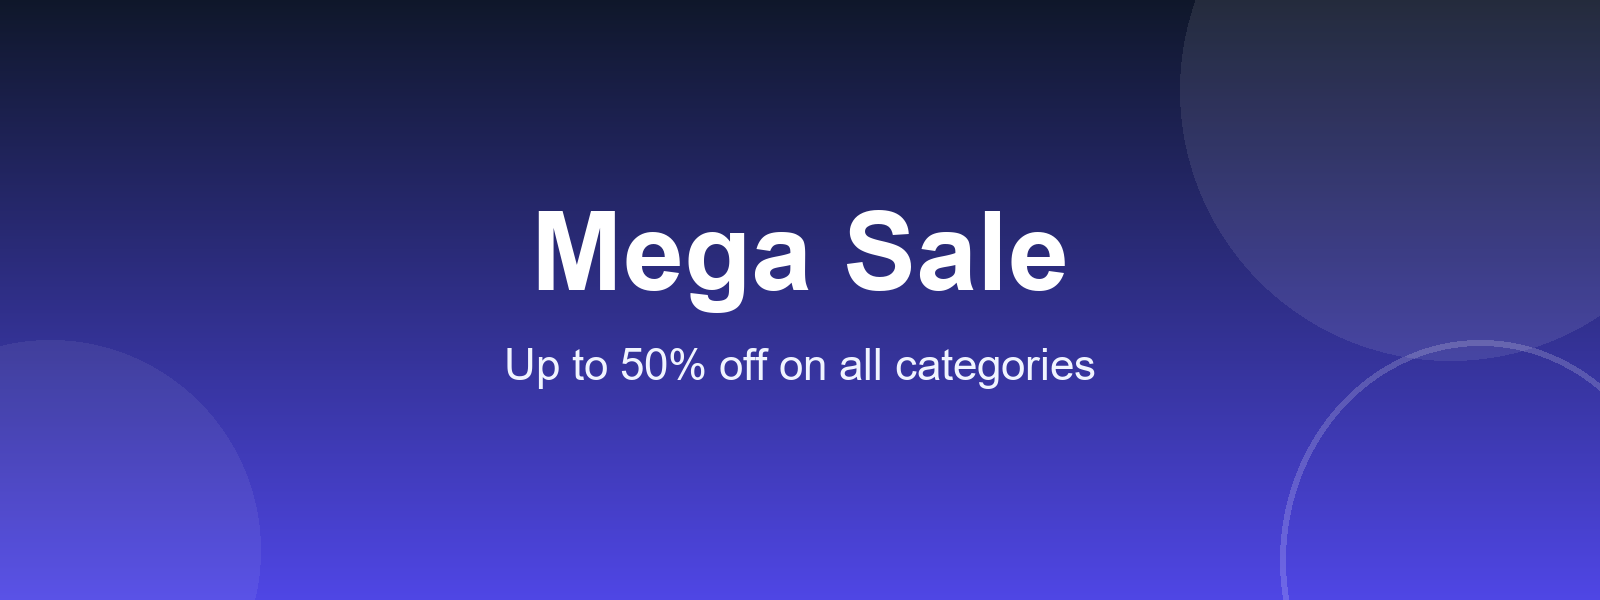
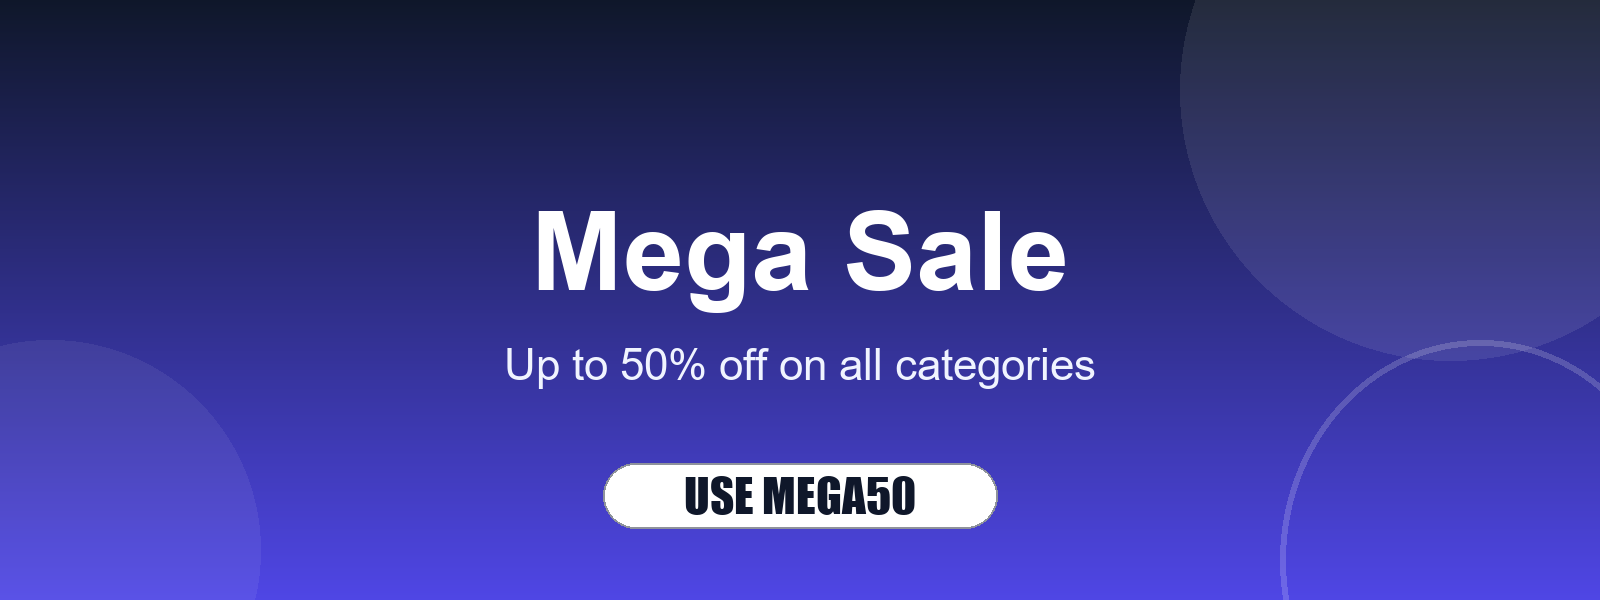
a little improvement

Changed region(s): [[0.375, 0.75, 0.625, 0.9]]

diff --git a/index.html b/index.html
@@ -14,9 +14,9 @@
   <script src="js/balance.js" defer></script>
   <script src="js/wishlist.js" defer></script>
 </head>
-<body class="min-h-screen bg-slate-50 pt-16">
+<body class="min-h-screen bg-slate-100 pt-16">
   <!-- Navbar -->
-  <header class="fixed inset-x-0 top-0 z-50 bg-white border-b border-slate-200">
+  <header class="fixed inset-x-0 top-0 z-50 bg-slate-50 border-b border-slate-200">
     <nav class="relative z-50 max-w-6xl mx-auto flex items-center justify-between h-16 px-4 sm:px-6">
       <a href="#home" class="flex items-center gap-2.5">
         <img src="assets/images/logo.png" alt="SmartShop logo" class="h-8 w-8" />
@@ -51,7 +51,7 @@
         <!-- End Hamburger button -->
       </div>
     </nav>
-    <div id="mobile-menu" class="fixed inset-0 z-40 hidden bg-white md:hidden">
+    <div id="mobile-menu" class="fixed inset-0 z-40 hidden bg-slate-50 md:hidden">
       <ul class="flex h-full flex-col items-center justify-center space-y-2 text-center">
         <li><a href="#home" class="block px-8 py-3 text-2xl font-medium text-slate-900 transition hover:underline hover:underline-offset-8 hover:decoration-2">Home</a></li>
         <li><a href="#products" class="block px-8 py-3 text-2xl font-medium text-slate-900 transition hover:underline hover:underline-offset-8 hover:decoration-2">Products</a></li>
@@ -62,8 +62,8 @@
   </header>
   <!-- End Navbar -->
   <!-- Banner -->
-  <section id="home" class="scroll-mt-20">
-    <div id="banner" class="relative h-60 sm:h-80 lg:h-[480px] overflow-hidden">
+  <section id="home" class="scroll-mt-20 max-w-6xl mx-auto px-4 sm:px-6 pt-4 sm:pt-6">
+    <div id="banner" class="relative h-60 sm:h-80 lg:h-[480px] overflow-hidden rounded-2xl border border-slate-200 shadow-sm">
       <!-- Slides -->
       <div class="banner-slide absolute inset-0">
         <img src="assets/images/banner1.png" alt="Mega Sale" class="h-full w-full object-cover" />
@@ -132,7 +132,7 @@
       <p class="mt-1 text-sm text-slate-500">What our customers say.</p>
       <div class="mt-6 relative">
         <!-- Carousel -->
-        <div id="reviews-viewport" class="overflow-hidden rounded-xl border border-slate-200 bg-white">
+        <div id="reviews-viewport" class="overflow-hidden rounded-xl border border-slate-200 bg-slate-50">
           <div id="reviews-track" class="min-h-40"></div>
         </div>
         <!-- End Carousel -->
@@ -159,7 +159,7 @@
       <!-- Team grid -->
       <div id="team-grid" class="mt-6 grid grid-cols-1 gap-6 sm:grid-cols-3">
         <!-- Team member -->
-        <figure class="overflow-hidden rounded-xl border border-slate-200 bg-white shadow-sm transition hover:shadow-md">
+        <figure class="overflow-hidden rounded-xl border border-slate-200 bg-slate-50 shadow-sm transition hover:shadow-md">
           <img src="assets/images/raahim.png" alt="Md Raahim Anowar" class="aspect-square w-full object-cover" loading="lazy" />
           <figcaption class="p-4">
             <p class="text-sm font-semibold text-slate-900">Md Raahim Anowar</p>
@@ -169,7 +169,7 @@
         </figure>
         <!-- End Team member -->
         <!-- Team member -->
-        <figure class="overflow-hidden rounded-xl border border-slate-200 bg-white shadow-sm transition hover:shadow-md">
+        <figure class="overflow-hidden rounded-xl border border-slate-200 bg-slate-50 shadow-sm transition hover:shadow-md">
           <img src="assets/images/tansen.png" alt="Md Tansen Uddin Tansu" class="aspect-square w-full object-cover" loading="lazy" />
           <figcaption class="p-4">
             <p class="text-sm font-semibold text-slate-900">Md Tansen Uddin Tansu</p>
@@ -179,7 +179,7 @@
         </figure>
         <!-- End Team member -->
         <!-- Team member -->
-        <figure class="overflow-hidden rounded-xl border border-slate-200 bg-white shadow-sm transition hover:shadow-md">
+        <figure class="overflow-hidden rounded-xl border border-slate-200 bg-slate-50 shadow-sm transition hover:shadow-md">
           <img src="assets/images/sayed.png" alt="MA Sayed" class="aspect-square w-full object-cover" loading="lazy" />
           <figcaption class="p-4">
             <p class="text-sm font-semibold text-slate-900">MA Sayed</p>
@@ -195,7 +195,7 @@
     <!-- FAQ -->
     <section id="faq" class="max-w-6xl mx-auto px-4 sm:px-6 pb-16">
       <h2 class="text-2xl font-semibold tracking-tight text-slate-900">FAQ</h2>
-      <div class="mt-6 max-w-3xl divide-y divide-slate-200 rounded-xl border border-slate-200 bg-white px-6 shadow-sm">
+      <div class="mt-6 divide-y divide-slate-200 rounded-xl border border-slate-200 bg-slate-50 px-6 shadow-sm">
         <!-- FAQ item -->
         <div>
           <button type="button" class="flex w-full items-center justify-between py-4 text-left text-sm font-medium text-slate-900">
@@ -236,14 +236,16 @@
     <section id="contact" class="scroll-mt-20 max-w-6xl mx-auto px-4 sm:px-6 pb-20">
       <h2 class="text-2xl font-semibold tracking-tight text-slate-900">Contact</h2>
       <p class="mt-1 text-sm text-slate-500">We usually reply within a day.</p>
-      <form id="contact-form" class="mt-6 max-w-md space-y-4" novalidate>
-        <div>
-          <label for="contact-name" class="block text-sm font-medium text-slate-700">Name</label>
-          <input id="contact-name" type="text" class="mt-1 w-full rounded-lg border border-slate-300 bg-white px-3 py-2 text-sm focus:border-slate-900 focus:outline-none" />
-        </div>
-        <div>
-          <label for="contact-email" class="block text-sm font-medium text-slate-700">Email</label>
-          <input id="contact-email" type="email" class="mt-1 w-full rounded-lg border border-slate-300 bg-white px-3 py-2 text-sm focus:border-slate-900 focus:outline-none" />
+      <form id="contact-form" class="mt-6 space-y-4" novalidate>
+        <div class="grid gap-4 sm:grid-cols-2">
+          <div>
+            <label for="contact-name" class="block text-sm font-medium text-slate-700">Name</label>
+            <input id="contact-name" type="text" class="mt-1 w-full rounded-lg border border-slate-300 bg-white px-3 py-2 text-sm focus:border-slate-900 focus:outline-none" />
+          </div>
+          <div>
+            <label for="contact-email" class="block text-sm font-medium text-slate-700">Email</label>
+            <input id="contact-email" type="email" class="mt-1 w-full rounded-lg border border-slate-300 bg-white px-3 py-2 text-sm focus:border-slate-900 focus:outline-none" />
+          </div>
         </div>
         <div>
           <label for="contact-message" class="block text-sm font-medium text-slate-700">Message</label>
@@ -251,12 +253,12 @@
         </div>
         <button type="submit" class="rounded-lg bg-slate-900 px-4 py-2.5 text-sm font-medium text-white transition hover:bg-slate-800">Send message</button>
       </form>
-      <p id="contact-success" class="hidden mt-6 max-w-md text-sm font-medium text-emerald-600">Thank you! Your message has been sent.</p>
+      <p id="contact-success" class="hidden mt-6 text-sm font-medium text-emerald-600">Thank you! Your message has been sent.</p>
     </section>
     <!-- End Contact -->
   </main>
   <!-- Footer -->
-  <footer class="border-t border-slate-200 bg-white">
+  <footer class="border-t border-slate-200 bg-slate-50">
     <div class="max-w-6xl mx-auto px-4 sm:px-6 py-10">
       <div class="grid grid-cols-1 sm:grid-cols-2 gap-8">
         <div>
@@ -281,7 +283,7 @@
   <!-- End Footer -->
   <!-- Cart drawer -->
   <div id="cart-backdrop" class="fixed inset-0 z-[55] bg-slate-900/40 opacity-0 pointer-events-none transition-opacity duration-300"></div>
-  <aside id="cart-drawer" aria-label="Shopping cart" class="fixed inset-y-0 right-0 z-[60] flex w-full max-w-sm translate-x-full flex-col bg-white border-l border-slate-200 shadow-xl transition-transform duration-300">
+  <aside id="cart-drawer" aria-label="Shopping cart" class="fixed inset-y-0 right-0 z-[60] flex w-full max-w-sm translate-x-full flex-col bg-slate-50 border-l border-slate-200 shadow-xl transition-transform duration-300">
     <div class="flex h-16 items-center justify-between border-b border-slate-200 px-5">
       <h2 class="text-base font-semibold tracking-tight text-slate-900">Your Cart</h2>
       <button id="cart-close" type="button" aria-label="Close cart" class="rounded-lg p-2 text-slate-500 transition hover:bg-slate-100 hover:text-slate-900">
@@ -292,7 +294,7 @@
     </div>
     <div class="flex-1 overflow-y-auto px-5 py-4">
       <!-- Items -->
-      <ul id="cart-items" class="divide-y divide-slate-100"></ul>
+      <ul id="cart-items" class="divide-y divide-slate-200"></ul>
       <!-- End Items -->
       <!-- Money rows -->
       <dl class="mt-4 space-y-2 text-sm text-slate-600">
@@ -321,7 +323,7 @@
       <p id="delivery-hint" class="hidden mt-2 text-xs"></p>
       <!-- Coupon -->
       <div class="mt-4 flex gap-2">
-        <input id="coupon-input" type="text" placeholder="Coupon code" class="w-full rounded-lg border border-slate-300 px-3 py-2 text-sm uppercase tracking-wide placeholder:text-slate-400 placeholder:normal-case focus:border-slate-900 focus:outline-none" />
+        <input id="coupon-input" type="text" placeholder="Coupon code" class="w-full rounded-lg border border-slate-300 bg-white px-3 py-2 text-sm uppercase tracking-wide placeholder:text-slate-400 placeholder:normal-case focus:border-slate-900 focus:outline-none" />
         <button id="coupon-apply" type="button" class="rounded-lg border border-slate-300 px-4 py-2 text-sm font-medium text-slate-700 transition hover:border-slate-900 hover:text-slate-900">Apply</button>
       </div>
       <!-- End Coupon -->
@@ -333,7 +335,7 @@
   <!-- End Cart drawer -->
   <!-- Balance drawer -->
   <div id="balance-backdrop" class="fixed inset-0 z-[55] bg-slate-900/40 opacity-0 pointer-events-none transition-opacity duration-300"></div>
-  <aside id="balance-drawer" aria-label="Balance" class="fixed inset-y-0 right-0 z-[60] flex w-full max-w-sm translate-x-full flex-col bg-white border-l border-slate-200 shadow-xl transition-transform duration-300">
+  <aside id="balance-drawer" aria-label="Balance" class="fixed inset-y-0 right-0 z-[60] flex w-full max-w-sm translate-x-full flex-col bg-slate-50 border-l border-slate-200 shadow-xl transition-transform duration-300">
     <div class="flex h-16 items-center justify-between border-b border-slate-200 px-5">
       <h2 class="text-base font-semibold tracking-tight text-slate-900">Balance</h2>
       <button id="balance-close" type="button" aria-label="Close balance" class="rounded-lg p-2 text-slate-500 transition hover:bg-slate-100 hover:text-slate-900">
@@ -352,7 +354,7 @@
   <!-- End Balance drawer -->
   <!-- Wishlist drawer -->
   <div id="wishlist-backdrop" class="fixed inset-0 z-[55] bg-slate-900/40 opacity-0 pointer-events-none transition-opacity duration-300"></div>
-  <aside id="wishlist-drawer" aria-label="Wishlist" class="fixed inset-y-0 right-0 z-[60] flex w-full max-w-sm translate-x-full flex-col bg-white border-l border-slate-200 shadow-xl transition-transform duration-300">
+  <aside id="wishlist-drawer" aria-label="Wishlist" class="fixed inset-y-0 right-0 z-[60] flex w-full max-w-sm translate-x-full flex-col bg-slate-50 border-l border-slate-200 shadow-xl transition-transform duration-300">
     <div class="flex h-16 items-center justify-between border-b border-slate-200 px-5">
       <h2 class="text-base font-semibold tracking-tight text-slate-900">Wishlist</h2>
       <button id="wishlist-close" type="button" aria-label="Close wishlist" class="rounded-lg p-2 text-slate-500 transition hover:bg-slate-100 hover:text-slate-900">
@@ -362,7 +364,7 @@
       </button>
     </div>
     <div class="flex-1 overflow-y-auto px-5 py-4">
-      <ul id="wishlist-items" class="divide-y divide-slate-100"></ul>
+      <ul id="wishlist-items" class="divide-y divide-slate-200"></ul>
     </div>
   </aside>
   <!-- End Wishlist drawer -->

diff --git a/js/products.js b/js/products.js
@@ -23,7 +23,7 @@ function baseCount() {
 // Loading skeletons
 function skeletonCard() {
   const card = document.createElement('article');
-  card.className = 'animate-pulse rounded-xl border border-slate-200 bg-white';
+  card.className = 'animate-pulse rounded-xl border border-slate-200 bg-slate-50';
   const img = document.createElement('div');
   img.className = 'h-44 w-full bg-slate-100';
   const body = document.createElement('div');
@@ -111,7 +111,7 @@ function buildStars(rate) {
 
 function createCard(product) {
   const card = document.createElement('article');
-  card.className = 'relative flex flex-col overflow-hidden rounded-xl border border-slate-200 bg-white shadow-sm transition hover:-translate-y-0.5 hover:shadow-lg';
+  card.className = 'relative flex flex-col overflow-hidden rounded-xl border border-slate-200 bg-slate-50 shadow-sm transition hover:-translate-y-0.5 hover:shadow-lg';
 
   const img = document.createElement('img');
   img.src = product.image;

diff --git a/js/config.js b/js/config.js
@@ -6,8 +6,7 @@ const SHIPPING_FEE = 120;
 const FREE_DELIVERY_MIN = 2000;
 
 const COUPONS = {
-  SMART10: 0.10,
-  HEHE35: 0.35,
+  MEGA50: 0.50,
 };
 
 const START_BALANCE = 1000;
